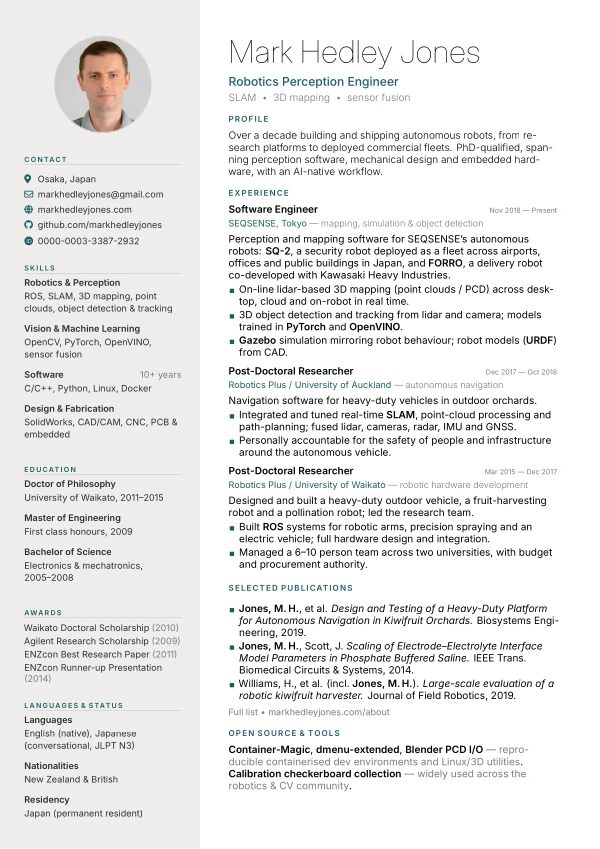
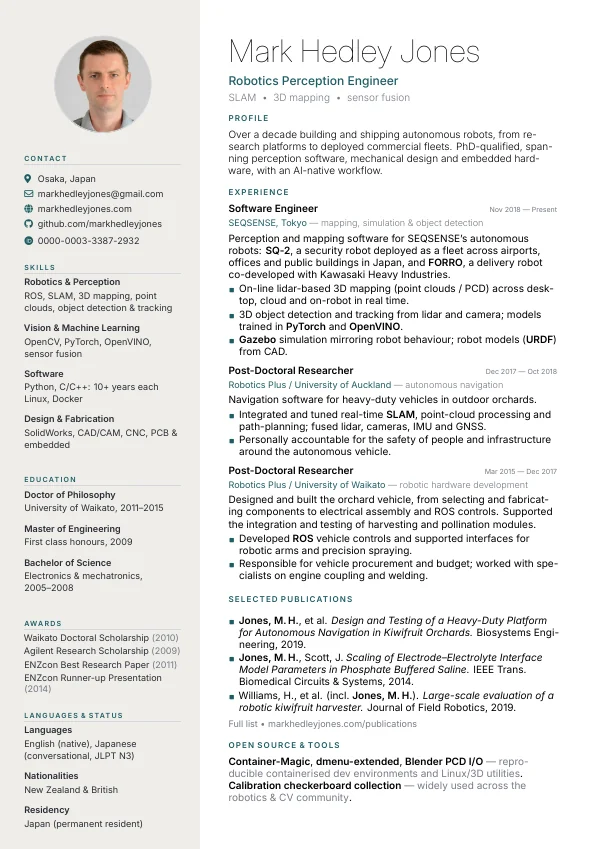
fix(site): align career claims, CV and sitemap dates

diff --git a/docs/_posts/2018-10-01-barcode-scanner-shopping-list.html b/docs/_posts/2018-10-01-barcode-scanner-shopping-list.html
@@ -3,6 +3,7 @@
 layout: project
 title:  "Automatic Shopping List"
 date:   2018-10-01 09:01:13 +0000
+last_modified_at: 2026-09-29
 relevance: 3
 permalink: /projects/barcode-scanner-shopping-list
 featureimage: feature.webp
@@ -26,7 +27,7 @@ excerpt_separator: \{% endhighlight %\}
 </p>
 <ul>
   <li>Timer to turn off the screen and barcode scanner at night and when nobody was home</li>
-  <li>Live weather (four day forecast) with expected precepitation graph</li>
+  <li>Live weather (four-day forecast) with expected precipitation graph</li>
   <li>Countdown timer (top left under date) to a goal</li>
   <li>Shared calendars (via Google Calendar)</li>
   <li>Todo list (via Trello)</li>
@@ -36,9 +37,9 @@ excerpt_separator: \{% endhighlight %\}
 
 <h2>Details Summary</h2>
 <ul>
-<li>The PC maintained a database of products and their barcode numbers. When an unknown item was scanned, it appeard as "Unknown Item (08 5321...)" Whrere the numbers in brackets are the start of the item's barcode number. Then, on Trello, you could it to matche the name of the item (e.g. "Baking Soda"). The PC would see this change and record the item description and barcode number into a separate <a href="https://github.com/MarkHedleyJones/Household-Barcode-Database">GitHub repository</a>. This made adding new products quick and simple.</li>
+<li>The PC maintained a database of products and their barcode numbers. When an unknown item was scanned, it appeared as "Unknown Item (08 5321...)" where the numbers in brackets were the start of the item's barcode number. You could then edit the item in Trello to match its name (e.g. "Baking Soda"). The PC would see this change and record the item description and barcode number into a separate <a href="https://github.com/MarkHedleyJones/Household-Barcode-Database">GitHub repository</a>. This made adding new products quick and simple.</li>
 <li>The barcode scanner appears as a keyboard input device. Scanning an item causes the virtual keyboard to enter the barcode number followed by enter.</li>
-<li>Google chrome was automatically launched in `kiosk` mode at boot-up. This removes the titlebar and keeps it in full-screen mode.</li>
+<li>Google Chrome was automatically launched in <code>kiosk</code> mode at boot-up. This removed the title bar and kept it in full-screen mode.</li>
 <li>The webserver was created using Flask in Python.</li>
 <li>The material design lite CSS kit was used to style the page.</li>
 </ul>

diff --git a/docs/about.html b/docs/about.html
@@ -2,6 +2,8 @@
 layout: about
 title: About
 permalink: /about/
+last_modified_at: 2026-09-29
+description: About Mark Hedley Jones, a robotics perception engineer working on SLAM, 3D mapping and autonomous systems in New Zealand and Japan.
 ---
 
 <div class="profile-header">
@@ -60,7 +62,10 @@ permalink: /about/
       <div class="work-content">
         <p>
           From 2015 to 2018, as a post-doctoral researcher with the <a href="https://www.waikato.ac.nz/">University of Waikato</a> and later the <a href="https://www.auckland.ac.nz/">University of Auckland</a>, I worked on robotic systems for kiwifruit operations.
-          At Waikato I led a team of six to ten engineers designing and building the platform, harvester, and pollinator hardware; at Auckland I built the real-time navigation software, fusing lidar, cameras, IMU, and GNSS, and was personally accountable for the safety of people and infrastructure around the autonomous vehicle.
+          At Waikato I designed and built the orchard platform, from selecting and purchasing parts to fabrication, electrical assembly, and ROS control software. Colleagues helped with specialist work, including the engine coupling and welding, while I supported the harvesting and pollination teams with module integration and testing.
+        </p>
+        <p>
+          At Auckland I built the real-time navigation software, fusing lidar, cameras, IMU, and GNSS, and was personally accountable for the safety of people and infrastructure around the autonomous vehicle.
           The project involved collaboration between universities, Plant and Food Research, and Robotics Plus Ltd, funded by the Ministry of Business, Innovation and Employment.
           The research team developed autonomous systems for pollination, harvesting, and platform mobility, though the technology ultimately proved economically challenging for commercial deployment.
         </p>

diff --git a/docs/_posts/2018-04-15-calibration-checkerboard-collection.html b/docs/_posts/2018-04-15-calibration-checkerboard-collection.html
@@ -4,7 +4,7 @@ layout: project
 title:  "Calibration Checkerboard Collection"
 date:   2018-04-15 09:01:13 +0000
 relevance: 9
-modified_date: 2026-02-08
+last_modified_at: 2026-02-08
 permalink: /projects/calibration-checkerboard-collection
 image: /media/projects/calibration-checkerboard-collection/calibration-checkerboard-collection.svg
 description: Free camera calibration checkerboards for computer vision. Multiple formats, custom generator, no watermarks.
@@ -309,5 +309,4 @@ generate_checkerboard();
 <a href="/media/projects/calibration-checkerboard-collection/Checkerboard-A1-185mm-3x2.pdf"><img loading="lazy" alt="" src="/media/projects/calibration-checkerboard-collection/Checkerboard-A1-185mm-3x2.svg">A1 - 185mm squares - 3x2 vertices, 4x3 squares</a>
 <a href="/media/projects/calibration-checkerboard-collection/Checkerboard-A1-190mm-3x2.pdf"><img loading="lazy" alt="" src="/media/projects/calibration-checkerboard-collection/Checkerboard-A1-190mm-3x2.svg">A1 - 190mm squares - 3x2 vertices, 4x3 squares</a>
 </div>
-
 

diff --git a/docs/_layouts/project.html b/docs/_layouts/project.html
@@ -19,8 +19,8 @@ layout: default
     "name": "{{ site.author.name | default: site.title }}"
   },
   "datePublished": "{{ page.date | date_to_xmlschema }}",
-  {%- if page.modified_date -%}
-  "dateModified": "{{ page.modified_date | date_to_xmlschema }}",
+  {%- if page.last_modified_at -%}
+  "dateModified": "{{ page.last_modified_at | date_to_xmlschema }}",
   {%- endif -%}
   {%- if page.image -%}
   "image": "{{ site.url }}{{ page.image }}",
@@ -67,8 +67,8 @@ layout: default
             {{ page.date_end | date: date_format }}
           </time>
         {%- endif -%}
-        {%- if page.modified_date -%}
-          {%- assign mdate = page.modified_date | date_to_xmlschema -%}
+        {%- if page.last_modified_at -%}
+          {%- assign mdate = page.last_modified_at | date_to_xmlschema -%}
           · Last updated:
           <time datetime="{{ mdate }}">
             {{ mdate | date: date_format }}

diff --git a/docs/_layouts/note.html b/docs/_layouts/note.html
@@ -14,8 +14,8 @@ layout: default
     "url": "{{ site.url }}/about/"
   },
   "datePublished": "{{ page.date | date_to_xmlschema }}",
-  {%- if page.modified_date -%}
-  "dateModified": "{{ page.modified_date | date_to_xmlschema }}",
+  {%- if page.last_modified_at -%}
+  "dateModified": "{{ page.last_modified_at | date_to_xmlschema }}",
   {%- endif -%}
   "inLanguage": "en-NZ",
   "isAccessibleForFree": true,
@@ -37,8 +37,8 @@ layout: default
         <time datetime="{{ page.date | date_to_xmlschema }}">
           {{ page.date | date: date_format }}
         </time>
-        {%- if page.modified_date -%}
-          {%- assign mdate = page.modified_date | date_to_xmlschema -%}
+        {%- if page.last_modified_at -%}
+          {%- assign mdate = page.last_modified_at | date_to_xmlschema -%}
           · Last updated:
           <time datetime="{{ mdate }}">
             {{ mdate | date: date_format }}

diff --git a/docs/_posts/2018-03-02-bamboo-lidar-mount.html b/docs/_posts/2018-03-02-bamboo-lidar-mount.html
@@ -4,7 +4,7 @@ layout: project
 title:  "Bamboo Lidar & IMU Mount"
 date:   2018-03-02 09:01:13 +0000
 relevance: 9
-modified_date: 2026-03-07
+last_modified_at: 2026-03-07
 permalink: /projects/bamboo-lidar-mount
 featureimage: feature.webp
 thumb: thumb.webp

diff --git a/docs/_posts/2019-04-14-aluminium-foundry.md b/docs/_posts/2019-04-14-aluminium-foundry.md
@@ -4,7 +4,7 @@ layout: project
 title:  "Aluminium Foundry"
 date:   2019-04-14 09:01:13 +0000
 relevance: 4
-modified_date: 2025-08-13 06:30:00 +0000
+last_modified_at: 2026-09-29
 permalink: /projects/aluminium-foundry
 featureimage: feature.webp
 thumb: thumb.webp
@@ -16,7 +16,7 @@ excerpt_separator: \{% endhighlight %\}
 
 After taking inspiration from a number of furnaces seen on YouTube, I decided to build a furnace, or home foundry, for melting aluminium. I didn't have anything in particular that I wanted to cast, but was just generally interested in creating a foundry hot enough to melt metal.
 
-# Electric Foundry
+## Electric Foundry
 
 I settled on an electric furnace design as it seemed to be the easiest and safest method: cheaper than propane, simpler to control, and I was already familiar with electrical systems. I sourced high-temperature bricks and tiles from a refractory brick supplier (firebricks.co.nz), capable of withstanding temperatures of 1000°C (1832°F), and 2kW nichrome heating element wire from eBay. To hold the furnace together I used modular workshop shelving from a hardware store which bolted together like Meccano.
 
@@ -32,11 +32,11 @@ The first image shows the initial frame assembly. The electric element wire was 
 </div>
 {% include image.html src="/media/projects/aluminium-foundry/IMG_20160828_125740.webp" alt="Completed electric foundry ready for testing" %}
 
-## Safety Considerations
+### Safety Considerations
 
 The electric furnace was operated with RCD (residual current device) protection in the garage, with the garage door always open for ventilation. Protective goggles and a filtered face mask were used when cutting fire-tiles to prevent inhalation of dust particles.
 
-## Electric System Failure
+### Electric System Failure
 
 Unfortunately, after running the furnace for about 30 minutes, the electric element wire burnt itself out. After replacing the element, the same problem occurred. Looking back, I believe this was due to several factors: firstly, I may not have uncoiled the nichrome wire sufficiently, potentially causing shorts where the wire touched itself. Secondly, embedding the wire directly into the insulating fire-bricks likely created hot-spots, particularly in the corners of the square chamber. A round chamber design might have provided better heat distribution. The wire was correctly sized for the 2kW power requirement, so the failures were likely due to poor installation technique rather than undersized components.
 
@@ -46,7 +46,7 @@ In the end, I broke the bricks apart and added an entry hole for a propane torch
 
 {% include image.html src="/media/projects/aluminium-foundry/IMG_20161106_152910.webp" alt="Propane powered foundry" %}
 
-# Propane Foundry
+## Propane Foundry
 
 For the second version of the foundry I decided to have the propane torch come up from the underside of the furnace to keep the heat even. I reused the same frame, but instead of using fire-bricks, I used fire-tiles which were thinner. The propane setup cost approximately 300 NZD (£150/$180) including the bottle, adjustable regulator, fittings, and flashback arrestor for safety.
 
@@ -66,11 +66,11 @@ The burner itself was made from a combination of pneumatic tool fittings, a MIG 
 
 {% include image.html src="/media/projects/aluminium-foundry/IMG_20170305_104710.webp" alt="Final furnace design" %}
 
-# Final Result
+## Final Result
 
 {% include video-embed.html url="y7v98cf1fbg" title="Aluminium foundry melting and casting" %}
 
-# Casting Trial
+## Casting Trial
 
 As a trial, I had made a stainless steel mould to see if I could cast a small hexagon. It was made from 8mm laser cut stainless steel plate that was stacked to make a hexagonal cavity. The animation below shows how it was constructed.
 

diff --git a/docs/_posts/2026-03-07-autonomous-navigation-in-kiwifruit-orchards.md b/docs/_posts/2026-03-07-autonomous-navigation-in-kiwifruit-orchards.md
@@ -3,6 +3,7 @@
 layout: project
 title: "Autonomous Navigation in Kiwifruit Orchards"
 date: 2026-03-07
+last_modified_at: 2026-09-29
 relevance: 10
 permalink: /projects/autonomous-navigation-kiwifruit-orchards
 featureimage: feature.webp
@@ -80,6 +81,8 @@ The following video shows the full system running in real-time in an orchard, wi
 {% include video-embed.html url="Z7U6tahQR1U" caption="The row-following system running autonomously in a kiwifruit orchard" %}
 
 ## Headland turns
+
+Before I took over navigation, another researcher had demonstrated basic row-end turns on the full-size platform, using turn segments manually tuned for the orchard. My goal was to replace those preset turns with a planner that used the current SLAM map. The planner described below is that later system, not the one used in the earlier block traversals.
 
 With row following able to reliably get the platform to the end of a row, it was time to get the vehicle into the next row. The headland space (area between the rows and the block boundary) is cluttered with posts, trunks, and canopy supports, and the platform's turning circle is about 3.2 m, which doesn't leave much room.
 

diff --git a/docs/_posts/2026-02-28-robotics-platform-kiwifruit-orchards.md b/docs/_posts/2026-02-28-robotics-platform-kiwifruit-orchards.md
@@ -11,7 +11,7 @@ description: Building a robotics platform to carry harvesting and pollination ro
 keywords: robotics, kiwifruit, autonomous vehicle, agricultural robotics, ROS, CAN bus, New Zealand, Robotics Plus
 tags: [robotics, agriculture, hardware]
 math: true
-modified_date: 2026-03-07
+last_modified_at: 2026-03-07
 related_projects:
   - /projects/autonomous-navigation-kiwifruit-orchards
   - /projects/bosch-indradrive-cs-ros-node

diff --git a/docs/_posts/2022-07-23-docker-bbq.md b/docs/_posts/2022-07-23-docker-bbq.md
@@ -10,7 +10,7 @@ thumb: logo.webp
 description: A set of bash scripts for creating and running templated docker projects
 keywords: Docker, bash, development environment, containerisation, templates, DevOps
 tags: [containers]
-modified_date: 2026-02-08
+last_modified_at: 2026-02-08
 excerpt_separator: \{% endhighlight %\}
 ---
 

diff --git a/docs/_posts/2021-05-12-blender-pcd-io.md b/docs/_posts/2021-05-12-blender-pcd-io.md
@@ -4,7 +4,7 @@ layout: project
 title:  "Import/Export Point Cloud Data in Blender"
 date:   2021-05-12 09:01:13 +0000
 relevance: 8
-modified_date: 2025-08-16
+last_modified_at: 2025-08-16
 permalink: /projects/blender-pcd-io
 featureimage: feature.webp
 thumb: thumb.webp

diff --git a/docs/_posts/2023-12-05-note-using-tracy-profiler.md b/docs/_posts/2023-12-05-note-using-tracy-profiler.md
@@ -3,7 +3,7 @@
 layout: note
 title:  "Using Tracy Profiler"
 date:   2023-12-05
-modified_date: 2025-08-16
+last_modified_at: 2025-08-16
 permalink: /notes/using-tracy-profiler
 description: "a comprehensive guide to profiling C++ applications with Tracy"
 tags: [cpp]
